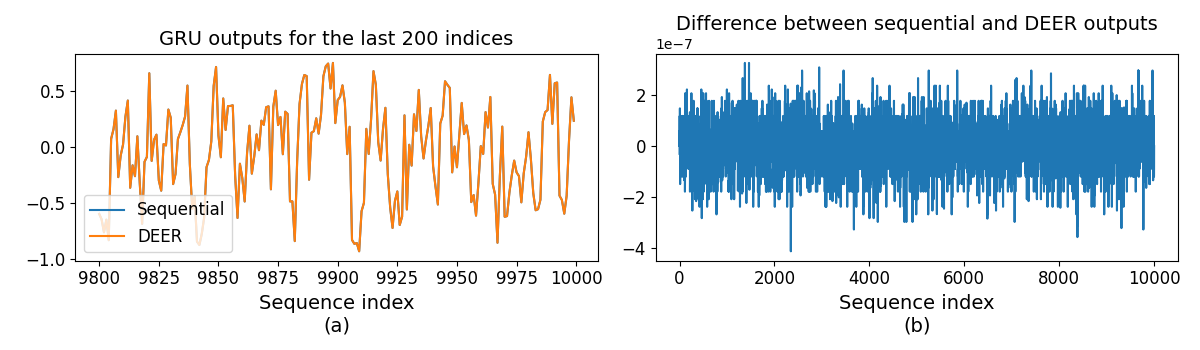
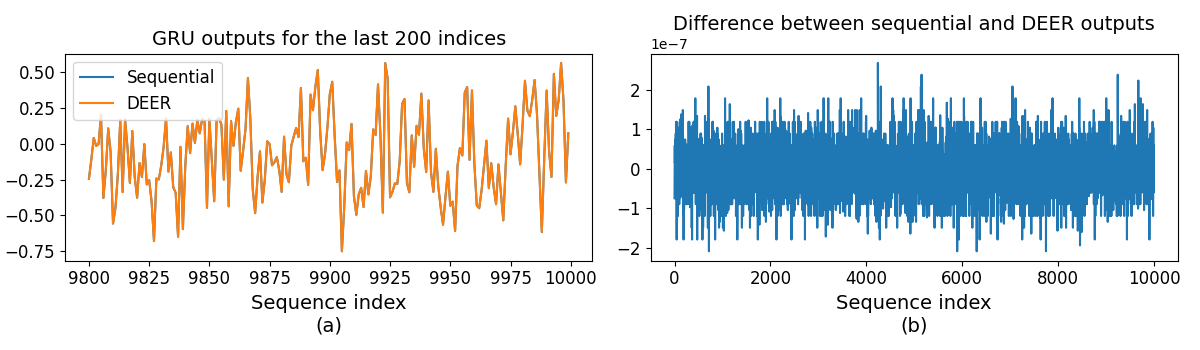
Update to the newest update and make experiment 02 replicable

diff --git a/experiments/02_compare_outputs/main.py b/experiments/02_compare_outputs/main.py
@@ -4,39 +4,58 @@ from functools import partial
 import jax
 import jax.numpy as jnp
 import numpy as np
-import flax.linen
+import equinox as eqx
 import matplotlib.pyplot as plt
 from deer.seq1d import seq1d
+
 
 def compare_outputs(
         nh: int = 32,
         nsequence: int = 10000,
         seed: int = 0,
+        batch_size: int = 2,  # changing batch_size to 1 makes the outputs not identical
         dtype: Any = jnp.float32):
 
-    gru = flax.linen.GRUCell(features=nh, dtype=dtype, param_dtype=dtype)
+    key = jax.random.PRNGKey(seed)
+    key, *subkey = jax.random.split(key, 3)
+    gru = eqx.nn.GRUCell(nh, nh, key=subkey[0])
+    # split the module into parameters and static parts
+    gru_params, gru_static = eqx.partition(gru, eqx.is_array)
+    gru_params = jax.tree_util.tree_map(lambda x: x.astype(dtype) if x is not None else x, gru_params)
+
     key = jax.random.PRNGKey(seed)
     key, *subkey = jax.random.split(key, 3)
 
-    carry = gru.initialize_carry(subkey[0], (1, nh))  # (batch_size, nh)
-    inputs = jax.random.normal(subkey[1], (nsequence, 1, nh), dtype=dtype)  # (nsequence, batch_size, nh)
-    params = gru.init(key, carry, inputs[0])
+    carry = jnp.zeros((batch_size, nh), dtype=dtype)
+    inputs = jax.random.normal(subkey[1], (nsequence, batch_size, nh), dtype=dtype)  # (nsequence, batch_size, nh)
 
     @jax.jit
     def func1(carry: jnp.ndarray, inputs: jnp.ndarray, params: Any) -> jnp.ndarray:
-        carry, outputs = jax.lax.scan(partial(gru.apply, params), carry, inputs)
+        gru = eqx.combine(gru_params, gru_static)
+        gru_method = jax.vmap(gru, in_axes=0, out_axes=0)
+
+        def call_gru1(carry: jnp.ndarray, inputs: jnp.ndarray):
+            output = gru_method(inputs, carry)
+            return output, output
+
+        _, outputs = jax.lax.scan(call_gru1, carry, inputs)
         return outputs  # (nsequence, batch_size, nh)
 
     @jax.jit
     def func2(carry: jnp.ndarray, inputs: jnp.ndarray, params: Any) -> jnp.ndarray:
-        gru_func = lambda carry, inputs, params: gru.apply(params, carry, inputs)[0]
-        return jax.vmap(seq1d, in_axes=(None, 0, 1, None), out_axes=1)(gru_func, carry, inputs, params)
+        def call_gru2(carry: jnp.ndarray, inputs: jnp.ndarray, params):
+            gru = eqx.combine(params, gru_static)
+            return gru(inputs, carry)
+
+        seq1dm = jax.vmap(seq1d, in_axes=(None, 0, 1, None), out_axes=1)
+        outputs = seq1dm(call_gru2, carry, inputs, gru_params)
+        return outputs
 
     # compile
-    _ = func1(carry, inputs, params)
-    _ = func2(carry, inputs, params)
-    y1 = func1(carry, inputs, params)[:, 0, 0]  # (nsequence,)
-    y2 = func2(carry, inputs, params)[:, 0, 0]  # (nsequence,)
+    _ = func1(carry, inputs, gru_params)
+    _ = func2(carry, inputs, gru_params)
+    y1 = func1(carry, inputs, gru_params)[:, 0, 0]  # (nsequence,)
+    y2 = func2(carry, inputs, gru_params)[:, 0, 0]  # (nsequence,)
 
     label_fontsize = 14
     legend_fontsize = 12

diff --git a/setup.py b/setup.py
@@ -23,18 +23,25 @@ setup(
     packages=find_packages(),
     python_requires=">=3.9",
     install_requires=[
-        "numpy==1.24.0",
-        "scipy==1.10.1",
-        "tensorboard==2.13.0",
-        "matplotlib==3.6.2",
-        "equinox==0.10.6",
-        "flax==0.7.0",
-        "ml_dtypes==0.2.0",
-        "pytorch_lightning==2.0.1",
-        "tensorboardX==2.6.1",
-        "pytest>=7.4.2",
-        "tqdm>=4.66.1",
+        "numpy>=1.24.0",
+        "scipy>=1.10.1",
+        "equinox>=0.10.6",
+        "matplotlib>=3.6.2",
     ],
+    extras_require={
+        "replication": [
+            "tensorboard>=2.13.0",
+            "flax>=0.7.0",
+            "ml_dtypes>=0.2.0",
+            "pytorch_lightning>=2.0.1",
+            "tensorboardX>=2.6.1",
+            "tqdm>=4.66.1",
+            "pytest>=7.4.2",
+        ],
+        "dev": [
+            "pytest>=7.4.2",
+        ],
+    },
     classifiers=[
         "Development Status :: 3 - Alpha",
         "Intended Audience :: Science/Research",

diff --git a/README.md b/README.md
@@ -3,15 +3,14 @@ The official repository of "Parallelizing non-linear sequential models over the 
 
 ## Installation
 
-The experiment we ran uses JAX 0.4.11, which runs fine.
-However, when we tried using the latest JAX (0.4.16), it raises an error.
-So we highly recommend to install the exact same version as ours for compatibility and reproducibility.
-Here are the commands to use the same versions as ours:
-
 ```
+pip install -U "jax[cuda12_pip]" -f https://storage.googleapis.com/jax-releases/jax_cuda_releases.html
 pip install --upgrade -e .
-pip install --upgrade jax==0.4.11 jaxlib==0.4.11+cuda11.cudnn86 -f https://storage.googleapis.com/jax-releases/jax_cuda_releases.html
-pip install nvidia-cudnn-cu11==8.6.0.163
+```
+
+If you want to replicate the experimental result, you can install this package by:
+```
+pip install --upgrade -e .[replication]
 ```
 
 ## Getting started
